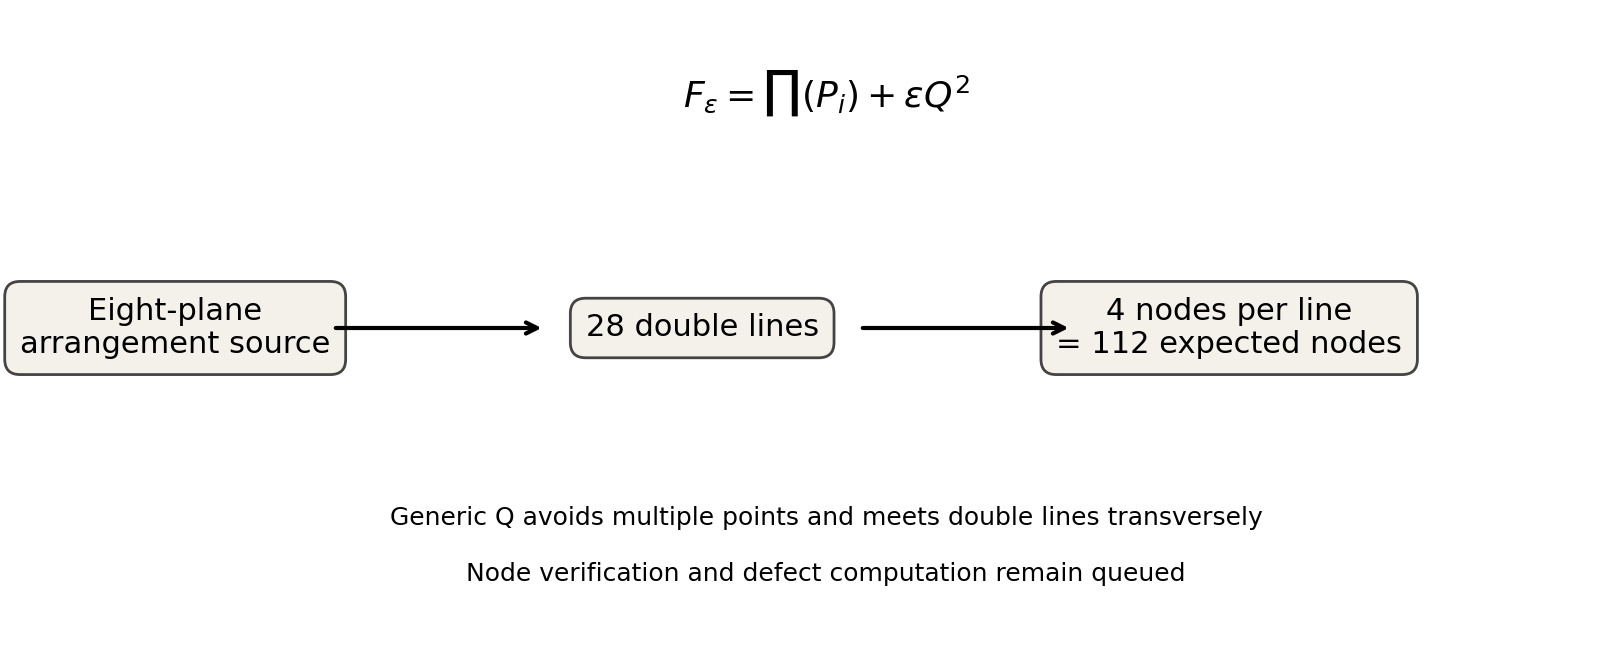
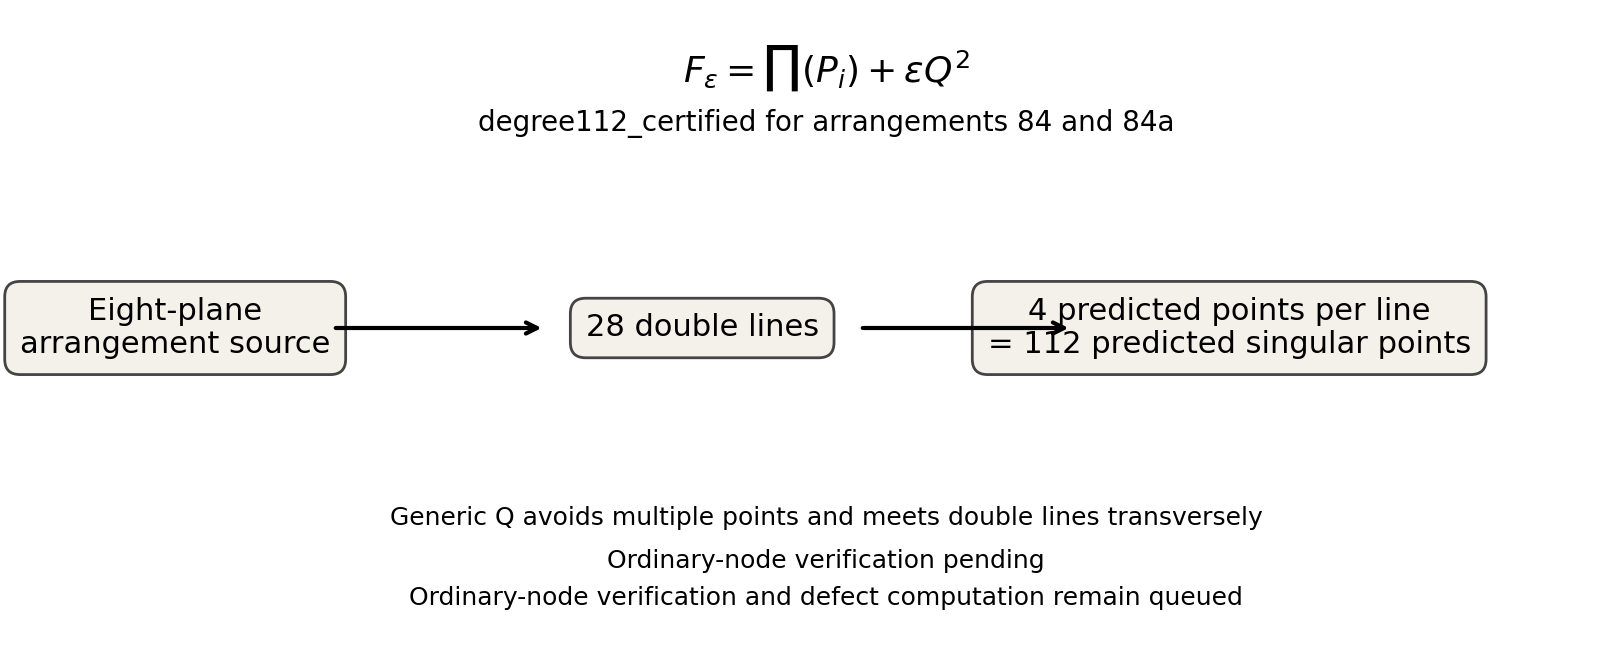
Align smoothing assets with manuscript status

Changed region(s): [[0.2468, 0.8232, 0.7711, 0.9451], [0.2776, 0.061, 0.7403, 0.2134], [0.5861, 0.4268, 0.9254, 0.5793]]

diff --git a/src/hodgecy/reporting/paper_figures.py b/src/hodgecy/reporting/paper_figures.py
@@ -81,21 +81,36 @@ def plot_same_hodge_cluster_sizes() -> None:
 
 
 def plot_smoothing_bridge_schematic() -> None:
+    paths = ensure_output_dirs()
     fig, ax = plt.subplots(figsize=(10, 4))
     ax.axis("off")
     boxes = [
         (0.08, 0.5, "Eight-plane\narrangement source"),
         (0.42, 0.5, "28 double lines"),
-        (0.76, 0.5, "4 nodes per line\n= 112 expected nodes"),
+        (0.76, 0.5, "4 predicted points per line\n= 112 predicted singular points"),
     ]
     for x, y, text in boxes:
         ax.text(x, y, text, ha="center", va="center", fontsize=11, bbox=dict(boxstyle="round,pad=0.5", fc="#f4f1ea", ec="#444"))
     ax.annotate("", xy=(0.32, 0.5), xytext=(0.18, 0.5), arrowprops=dict(arrowstyle="->", lw=1.5))
     ax.annotate("", xy=(0.66, 0.5), xytext=(0.52, 0.5), arrowprops=dict(arrowstyle="->", lw=1.5))
-    ax.text(0.5, 0.86, r"$F_{\epsilon} = \prod(P_i) + \epsilon Q^2$", ha="center", fontsize=13)
+    ax.text(0.5, 0.9, r"$F_{\epsilon} = \prod(P_i) + \epsilon Q^2$", ha="center", fontsize=13)
+    ax.text(0.5, 0.82, "degree112_certified for arrangements 84 and 84a", ha="center", fontsize=10)
     ax.text(0.5, 0.18, "Generic Q avoids multiple points and meets double lines transversely", ha="center", fontsize=9)
-    ax.text(0.5, 0.09, "Node verification and defect computation remain queued", ha="center", fontsize=9)
+    ax.text(0.5, 0.11, "Ordinary-node verification pending", ha="center", fontsize=9)
+    ax.text(0.5, 0.05, "Ordinary-node verification and defect computation remain queued", ha="center", fontsize=9)
     _save_figure(fig, "fig_smoothing_bridge_schematic")
+    metadata = {
+        "status": "degree112_certified",
+        "boxes": [text for _, _, text in boxes],
+        "top_text": r"$F_{\epsilon} = \prod(P_i) + \epsilon Q^2$",
+        "status_text": "degree112_certified for arrangements 84 and 84a",
+        "pending_text": "Ordinary-node verification pending",
+        "queue_text": "Ordinary-node verification and defect computation remain queued",
+    }
+    (paths["processed_figures"] / "fig_smoothing_bridge_schematic_metadata.json").write_text(
+        json.dumps(metadata, indent=2),
+        encoding="utf-8",
+    )
 
 
 def plot_concurrency_graphs_84_84a() -> None:
@@ -142,6 +157,18 @@ def plot_concurrency_graphs_84_84a() -> None:
         ax.set_title(f"Arrangement {arrangement_id} p4-collinearity graph\n{subtitle}; degree sequence {degree_sequence}", fontsize=11)
         ax.axis("off")
         _save_figure(fig, f"fig_concurrency_graph_{arrangement_id}")
+        metadata = {
+            "title": f"Arrangement {arrangement_id} p4-collinearity graph",
+            "subtitle": subtitle,
+            "degree_sequence": degree_sequence,
+            "highlighted_nodes": sorted(highlight_nodes),
+            "vertex_count": graph.number_of_nodes(),
+            "edge_count": graph.number_of_edges(),
+        }
+        (paths["processed_figures"] / f"fig_concurrency_graph_{arrangement_id}_metadata.json").write_text(
+            json.dumps(metadata, indent=2),
+            encoding="utf-8",
+        )
 
     pd.DataFrame(certificate_rows).to_csv(root / "data" / "processed" / "p4_collinearity_certificate.csv", index=False)
 
@@ -153,7 +180,8 @@ def plot_hodgecy_pipeline() -> None:
         "Cynk--Meyer dataset",
         "Arrangement / Hodge / arithmetic controls",
         r"Smoothing bridge $F_{\epsilon} = A + \epsilon Q^2$",
-        "Expected nodal double octic conifold",
+        "degree112_certified predicted singular points",
+        "Ordinary-node verification pending",
         "Node scheme defect computation",
         "HodgeCY atom profile",
         "Operator / Picard--Fuchs route comparison",

diff --git a/tests/test_generated_assets.py b/tests/test_generated_assets.py
@@ -1,5 +1,6 @@
 from __future__ import annotations
 
+import json
 from pathlib import Path
 import subprocess
 import sys
@@ -17,10 +18,44 @@ def test_generated_assets_include_partial_verification_and_p4_figures() -> None:
     smoothing = pd.read_csv(repo_root() / "paper" / "tables" / "table_smoothing_bridge_profiles.csv", dtype={"source_arrangement": str})
     assert set(smoothing["verification_status"]) == {"degree112_certified"}
     assert set(smoothing["expected_node_count_status"]) == {"degree112_certified"}
+    assert "Predicted points per line" in smoothing.columns
     assert not any("defect certificate are both repo-backed" in note for note in smoothing["notes"])
     assert not any("Verified: reduced zero-dimensional singular locus" in note for note in smoothing["notes"])
+    assert all(
+        note == "degree112_certified: (G1), (G2) verified over Q; saturated Jacobian degree 112 certified; reducedness and Hessian-rank checks pending."
+        for note in smoothing["notes"]
+    )
+
+    smoothing_tex = (repo_root() / "paper" / "tables" / "table_smoothing_bridge_profiles.tex").read_text(encoding="utf-8")
+    assert "Predicted points per line" in smoothing_tex
+    assert "degree112_certified" in smoothing_tex
+    assert "verified 112-node conifold" not in smoothing_tex
+    assert "defect = 7" not in smoothing_tex
+    assert "Hilbert-function value 105" not in smoothing_tex
+    assert "ordinary_node_verified" not in smoothing_tex
+    assert "defect_verified" not in smoothing_tex
 
     for suffix in ("png", "pdf"):
         assert (repo_root() / "paper" / "figures" / f"fig_concurrency_graph_84.{suffix}").exists()
         assert (repo_root() / "paper" / "figures" / f"fig_concurrency_graph_84a.{suffix}").exists()
     assert (repo_root() / "paper" / "tables" / "table_p4_collinearity_certificate.tex").exists()
+
+    schematic_meta = json.loads(
+        (repo_root() / "data" / "processed" / "paper_figures" / "fig_smoothing_bridge_schematic_metadata.json").read_text(encoding="utf-8")
+    )
+    assert schematic_meta["status"] == "degree112_certified"
+    assert "predicted singular points" in " ".join(schematic_meta["boxes"]).lower()
+    assert schematic_meta["pending_text"] == "Ordinary-node verification pending"
+    assert "Ordinary-node verification and defect computation remain queued" == schematic_meta["queue_text"]
+    assert "verified 112-node conifold" not in json.dumps(schematic_meta)
+
+    graph84_meta = json.loads(
+        (repo_root() / "data" / "processed" / "paper_figures" / "fig_concurrency_graph_84_metadata.json").read_text(encoding="utf-8")
+    )
+    graph84a_meta = json.loads(
+        (repo_root() / "data" / "processed" / "paper_figures" / "fig_concurrency_graph_84a_metadata.json").read_text(encoding="utf-8")
+    )
+    assert graph84_meta["title"] == "Arrangement 84 p4-collinearity graph"
+    assert graph84a_meta["title"] == "Arrangement 84a p4-collinearity graph"
+    assert graph84_meta["degree_sequence"] == "[6,8^9]"
+    assert graph84a_meta["degree_sequence"] == "[8^6,9^4]"

diff --git a/src/hodgecy/reporting/paper_tables.py b/src/hodgecy/reporting/paper_tables.py
@@ -133,8 +133,8 @@ def _verification_status_note(record: dict) -> str:
         return "Verified: reduced zero-dimensional singular locus of length 112; Hessian rank 3 at all singular points."
     if status == "degree112_certified":
         return (
-            "Genericity verified and char-0 degree 112 is certificate-backed for the explicit Q, "
-            "but reducedness, Hessian rank-3, and defect certificates are not yet machine-backed."
+            "degree112_certified: (G1), (G2) verified over Q; saturated Jacobian degree 112 certified; "
+            "reducedness and Hessian-rank checks pending."
         )
     if status == "genericity_verified":
         return (
@@ -193,6 +193,12 @@ def build_smoothing_bridge_table() -> pd.DataFrame:
             }
         )
     result = pd.DataFrame(rows)
+    result = result.rename(
+        columns={
+            "expected_nodes_per_double_line": "Predicted points per line",
+            "expected_node_count": "Predicted singular points",
+        }
+    )
     return _write_table_bundle(
         result,
         paths["paper_tables"] / "table_smoothing_bridge_profiles.csv",

diff --git a/paper/tables/table_smoothing_bridge_profiles.tex b/paper/tables/table_smoothing_bridge_profiles.tex
@@ -1,8 +1,8 @@
 \begin{tabular}{llrrrrllrrrlrlll}
 \toprule
-example_id & source_arrangement & double_line_count & triple_line_count & expected_nodes_per_double_line & expected_node_count & expected_node_count_status & verification_status & q_avoids_all_multiple_points & all_double_lines_have_four_simple_zeros & block_count & candidate_block_profile_summary & gluing_deficit & defect_status & critical_degree_status & notes \\
+example_id & source_arrangement & double_line_count & triple_line_count & Predicted points per line & Predicted singular points & expected_node_count_status & verification_status & q_avoids_all_multiple_points & all_double_lines_have_four_simple_zeros & block_count & candidate_block_profile_summary & gluing_deficit & defect_status & critical_degree_status & notes \\
 \midrule
-smoothing_bridge_84 & 84 & 28 & 0 & 4 & 112 & degree112_certified & degree112_certified & True & True & 28 & 28 blocks of size 4 & 84 & not_computed & needs_literature_verification & Genericity verified and char-0 degree 112 is certificate-backed for the explicit Q, but reducedness, Hessian rank-3, and defect certificates are not yet machine-backed. \\
-smoothing_bridge_84a & 84a & 28 & 0 & 4 & 112 & degree112_certified & degree112_certified & True & True & 28 & 28 blocks of size 4 & 84 & not_computed & needs_literature_verification & Genericity verified and char-0 degree 112 is certificate-backed for the explicit Q, but reducedness, Hessian rank-3, and defect certificates are not yet machine-backed. \\
+smoothing_bridge_84 & 84 & 28 & 0 & 4 & 112 & degree112_certified & degree112_certified & True & True & 28 & 28 blocks of size 4 & 84 & not_computed & needs_literature_verification & degree112_certified: (G1), (G2) verified over Q; saturated Jacobian degree 112 certified; reducedness and Hessian-rank checks pending. \\
+smoothing_bridge_84a & 84a & 28 & 0 & 4 & 112 & degree112_certified & degree112_certified & True & True & 28 & 28 blocks of size 4 & 84 & not_computed & needs_literature_verification & degree112_certified: (G1), (G2) verified over Q; saturated Jacobian degree 112 certified; reducedness and Hessian-rank checks pending. \\
 \bottomrule
 \end{tabular}

diff --git a/tests/test_smoothing_verification.py b/tests/test_smoothing_verification.py
@@ -27,3 +27,9 @@ def test_verification_json_schema_fields_exist() -> None:
         assert payload["G2_squarefree_on_double_lines"] is True
         assert payload["double_line_count"] == 28
         assert payload["expected_node_count"] == 112
+        assert payload["verification_status"] != "ordinary_node_verified"
+        assert payload["verification_status"] != "defect_verified"
+        assert payload["notes"] == (
+            "degree112_certified: (G1), (G2) verified over Q; saturated Jacobian degree 112 certified; "
+            "reducedness and Hessian-rank checks pending."
+        )

diff --git a/src/hodgecy/smoothing/verification.py b/src/hodgecy/smoothing/verification.py
@@ -381,8 +381,8 @@ def _build_notes(
         return "Verified: reduced zero-dimensional singular locus of length 112; Hessian rank 3 at all singular points."
     if verification_status == "degree112_certified":
         return (
-            "Genericity verified and char-0 degree 112 is certificate-backed for the explicit Q, "
-            "but reducedness, Hessian rank-3, and defect certificates are not yet machine-backed."
+            "degree112_certified: (G1), (G2) verified over Q; saturated Jacobian degree 112 certified; "
+            "reducedness and Hessian-rank checks pending."
         )
     if verification_status == "genericity_verified" and finite_field_checks:
         partial_primes = ", ".join(str(check.prime) for check in finite_field_checks if check.status != "failed")

diff --git a/README.md b/README.md
@@ -179,6 +179,13 @@ The repository still does not promote to `ordinary_node_verified` or
 `defect_verified` unless reducedness, Hessian rank-3, and defect certificates
 are actually present in machine-readable form.
 
+For arrangements `84` and `84a`, the current smoothing status is
+`degree112_certified`. Exact G1/G2 genericity verification and a
+characteristic-zero degree-112 saturated Jacobian certificate are repo-backed.
+The repository does not currently promote either arrangement to
+`ordinary_node_verified` or `defect_verified`; reducedness, Hessian-rank,
+critical-degree, Hilbert-function, and defect certificates remain pending.
+
 ## Defect Computation Gate
 
 The next decisive computation for the smoothing-bridge program is the classical